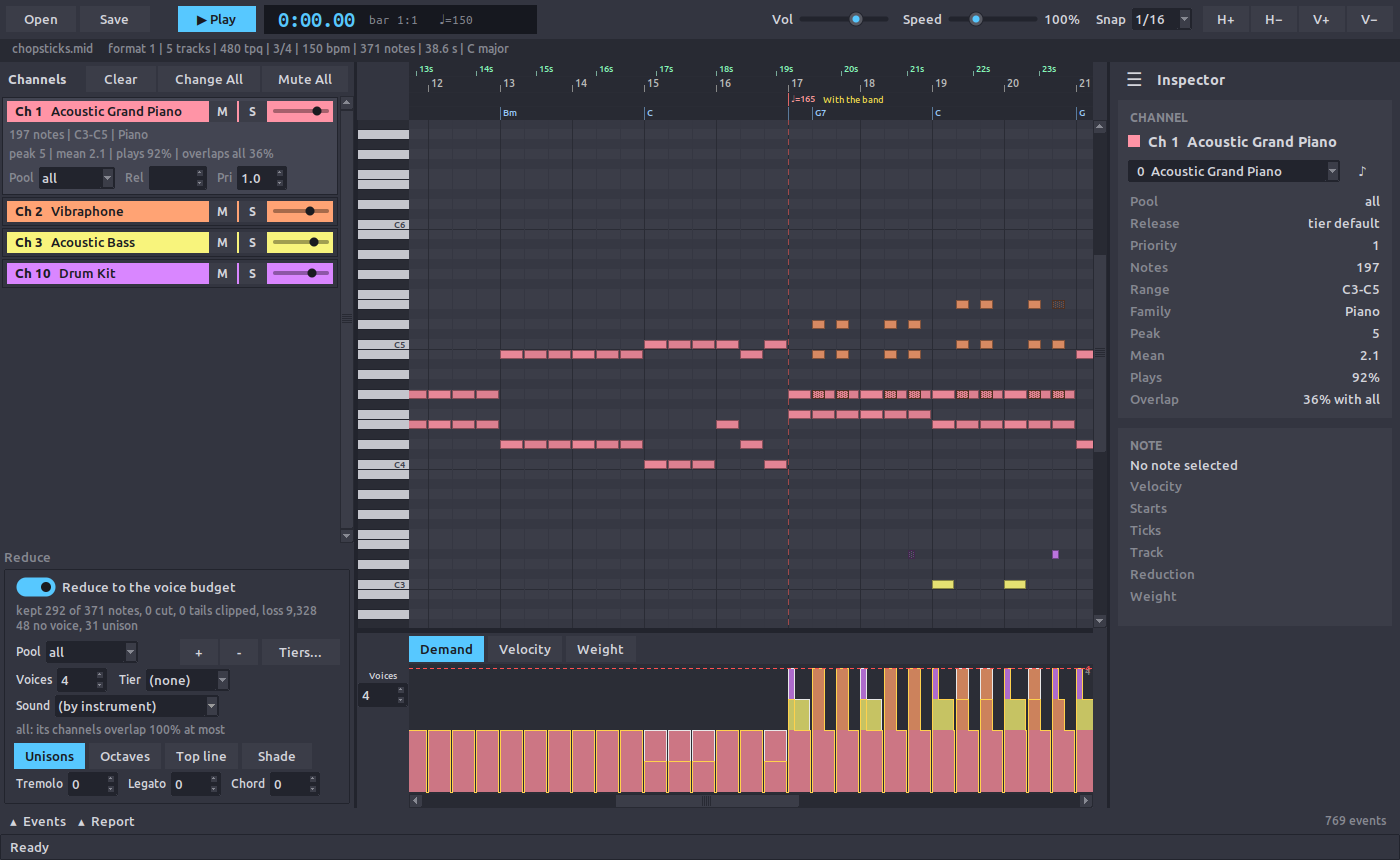
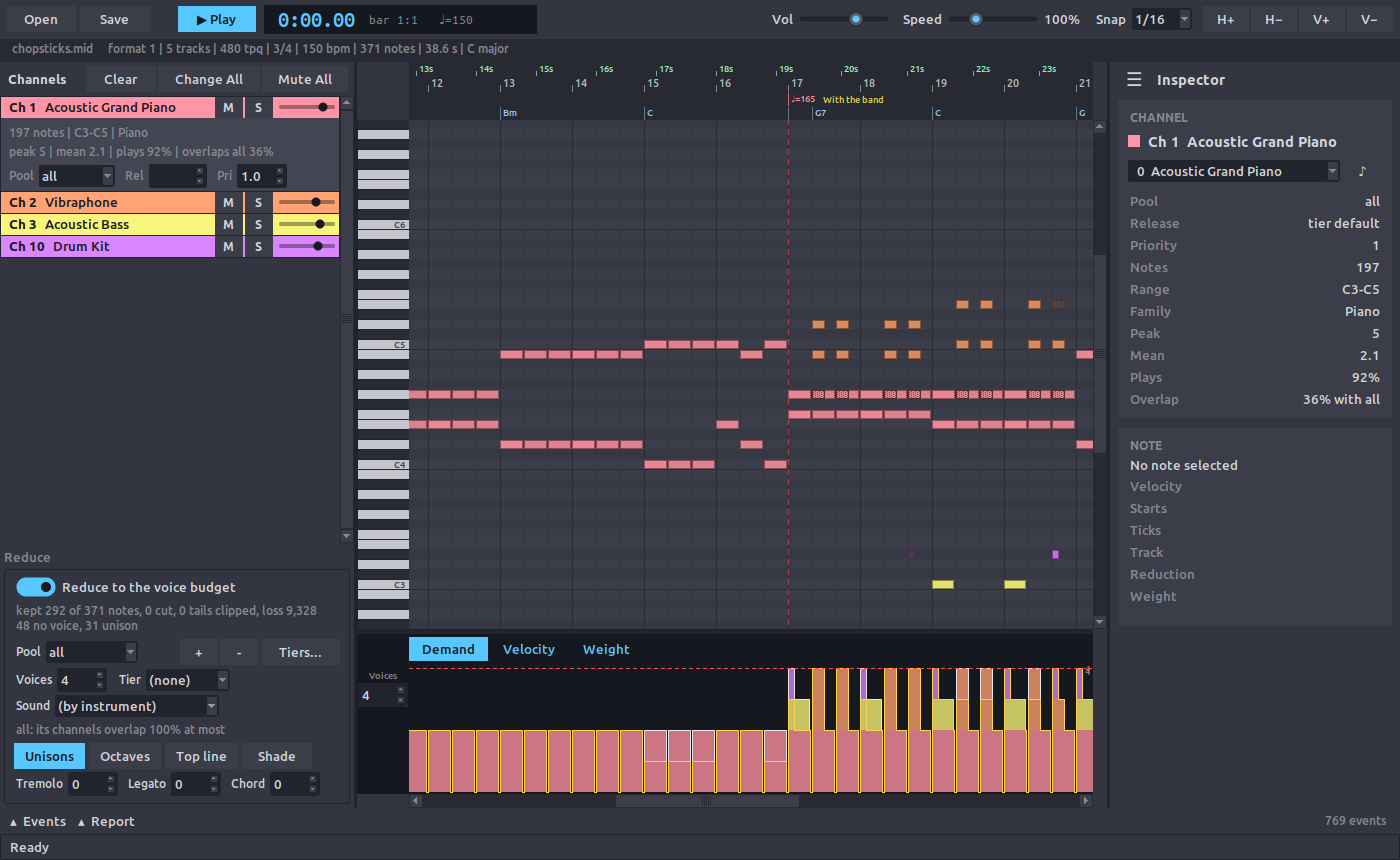
Pack the channel rows edge to edge with a one-pixel etched line between them, and put the strip, its lane switch and its gutter on a near-black panel with the lanes as accent text that fills when on view; retake the screenshots

Changed region(s): [[0.0, 0.0907, 0.2457, 0.3326], [0.2457, 0.7256, 0.7986, 0.9372]]

diff --git a/montyroll/app.py b/montyroll/app.py
@@ -439,8 +439,24 @@ class MidiEditorApp(tk.Tk):
         s.map("TScrollbar", **flatMap(("active", p["hover"])))
 
         # The sashes between the panes are the etched lines, three pixels wide.
+        # Etch.TFrame shows the same colour through the gaps between the
+        # channel rows.
         s.configure("Sash", sashthickness=3, gripcount=0, **flat(p["border"]))
         s.configure("TPanedwindow", background=p["border"])
+        s.configure("Etch.TFrame", background=p["border"])
+
+        # The lane switch and the strip's gutter sit on the strip's dark: a
+        # lane is accent text alone, and the lane on view is filled with the
+        # accent under dark text.
+        dark = theme.ROLL["strip"]
+        s.configure("Lane.TFrame", background=dark)
+        s.configure("Lane.TLabel", background=dark, foreground=p["muted"])
+        s.configure("Lane.Toggle.TButton", foreground=p["accent"], padding=(10, 1),
+                    focuscolor=dark, **flat(dark))
+        s.map("Lane.Toggle.TButton", foreground=[("selected", p["ink"])],
+              focuscolor=[("selected", p["accent"])],
+              **flatMap(("selected", "active", lit), ("selected", p["accent"]),
+                        ("active", theme.mix(dark, p["accent"], 0.15))))
 
     def _paintElements(self):
         """Make the painted images into the switch and slider elements.
@@ -680,11 +696,12 @@ class MidiEditorApp(tk.Tk):
         # gives way to it rather than pushing it off the window.
         self._buildReducePanel(left)
 
-        # Scrollable strip: the cards live in chanHolder, which is embedded in
+        # Scrollable strip: the rows live in chanHolder, which is embedded in
         # chanCanvas through create_window. The holder's <Configure> keeps the
-        # scrollregion in step with the cards' total height, and the canvas's
-        # <Configure> stretches the holder to the canvas width so the cards
-        # fill it edge to edge.
+        # scrollregion in step with the rows' total height, and the canvas's
+        # <Configure> stretches the holder to the canvas width so the rows
+        # fill it edge to edge. The holder is the etch colour, which frames
+        # the rows and shows as a one-pixel line between them.
         scroller = ttk.Frame(left)
         scroller.pack(fill="both", expand=True)
         self.chanCanvas = tk.Canvas(scroller, highlightthickness=0, width=340)
@@ -693,7 +710,7 @@ class MidiEditorApp(tk.Tk):
         self.chanCanvas.configure(yscrollcommand=cbar.set)
         cbar.pack(side="right", fill="y")
         self.chanCanvas.pack(side="left", fill="both", expand=True)
-        self.chanHolder = ttk.Frame(self.chanCanvas)
+        self.chanHolder = ttk.Frame(self.chanCanvas, style="Etch.TFrame", padding=(1, 1, 1, 0))
         self._chanWindow = self.chanCanvas.create_window(
             (0, 0), window=self.chanHolder, anchor="nw")
         self.chanHolder.bind(
@@ -780,8 +797,8 @@ class MidiEditorApp(tk.Tk):
         # only the visible columns from the current scroll position, so its
         # cost is the window width and not the length of the piece. The
         # gutter beside it holds the voice budget.
-        gutter = ttk.Frame(roll, width=KEYS_W)
-        switch = ttk.Frame(roll, padding=(KEYS_W, 3, 0, 2))
+        gutter = ttk.Frame(roll, width=KEYS_W, style="Lane.TFrame")
+        switch = ttk.Frame(roll, padding=(KEYS_W, 3, 0, 3), style="Lane.TFrame")
         switch.grid(row=3, column=0, columnspan=2, sticky="ew")
 
         for lane, tip in (("Demand", "Voices sounding over time, against the budget"),
@@ -789,13 +806,14 @@ class MidiEditorApp(tk.Tk):
                           ("Weight", "A bar for each note, as tall as its reduction weight;\n"
                                      "outlines are the notes the reduction drops")):
             b = ttk.Radiobutton(switch, text=lane, value=lane, variable=self.laneVar,
-                                style="Toggle.TButton", command=self._laneChanged)
-            b.pack(side="left", padx=(0, 4))
+                                style="Lane.Toggle.TButton", command=self._laneChanged)
+            b.pack(side="left", padx=(0, 2))
             Tooltip(b, tip)
 
         gutter.grid(row=4, column=0, sticky="nsew")
         gutter.grid_propagate(False)
-        ttk.Label(gutter, text="Voices", font=(self.uiFamily, 7)).pack(pady=(4, 0))
+        ttk.Label(gutter, text="Voices", style="Lane.TLabel",
+                  font=(self.uiFamily, 7)).pack(pady=(4, 0))
         self.budgetSpin = ttk.Spinbox(gutter, from_=1, to=64, width=3,
                                       textvariable=self.budgetVar,
                                       command=self._reductionChanged)
@@ -1216,9 +1234,8 @@ class MidiEditorApp(tk.Tk):
         for ch in sorted(self.song.channels):
             info = self.song.channels[ch]
             colour = CHANNEL_COLORS[ch]
-            row = tk.Frame(self.chanHolder, padx=4, pady=3, highlightthickness=1,
-                           highlightbackground=p["border"], highlightcolor=p["border"])
-            row.pack(fill="x", padx=2, pady=1)
+            row = tk.Frame(self.chanHolder)
+            row.pack(fill="x", pady=(0, 1))
 
             # The one-line row is a header bar in the channel's colour: the
             # number and instrument in dark text on the left; volume, solo
@@ -1263,7 +1280,7 @@ class MidiEditorApp(tk.Tk):
 
             # The detail, shown under the active row: summary, figures, and
             # the reduction controls.
-            detail = tk.Frame(row)
+            detail = tk.Frame(row, padx=6, pady=2)
             self.channelDetails[ch] = detail
             fam = "Percussion" if info.isDrums else gm.familyName(info.program)
             desc = (f"{info.noteCount} notes | "

diff --git a/tests/test_app.py b/tests/test_app.py
@@ -185,6 +185,29 @@ class TestTheme:
         assert str(fileMenu.cget("activebackground")) == theme.PALETTE["accent"]
         assert str(fileMenu.cget("activeforeground")) == theme.PALETTE["ink"]
 
+    def testRowsAreOnePixelApart(self, app: MidiEditorApp) -> None:
+        """The channel rows are packed with a one-pixel etched line between them."""
+        app.update_idletasks()
+        rows = [app.channelRows[ch] for ch in sorted(app.song.channels)]
+
+        for upper, lower in zip(rows, rows[1:]):
+            assert lower.winfo_y() - (upper.winfo_y() + upper.winfo_height()) == 1
+
+        assert str(app.chanHolder.cget("style")) == "Etch.TFrame"
+        assert ttk.Style(app).lookup("Etch.TFrame", "background") == theme.PALETTE["border"]
+
+    def testLaneSwitchOnTheDarkStrip(self, app: MidiEditorApp) -> None:
+        """The lanes are accent text on the strip's dark; the lane on view is filled."""
+        style = ttk.Style(app)
+        dark = theme.ROLL["strip"]
+        assert str(app.demandCanvas.cget("background")) == dark
+        assert style.lookup("Lane.Toggle.TButton", "background") == dark
+        assert style.lookup("Lane.Toggle.TButton", "foreground") == theme.PALETTE["accent"]
+        assert (style.lookup("Lane.Toggle.TButton", "background", ["selected"])
+                == theme.PALETTE["accent"])
+        assert (style.lookup("Lane.Toggle.TButton", "foreground", ["selected"])
+                == theme.PALETTE["ink"])
+
     def testRowHeaderTakesTheChannelColour(self, app: MidiEditorApp) -> None:
         """A row's header bar is its channel colour with dark text, active or not."""
         first, second = sorted(app.song.channels)[:2]

diff --git a/montyroll/theme.py b/montyroll/theme.py
@@ -35,10 +35,11 @@ PALETTE = {
 
 # The roll, ruler, keyboard gutter and strip: a mid grey note grid with
 # darker lines, so the pastel notes stand out; muted channels' notes in a
-# grey a step lighter than the grid.
+# grey a step lighter than the grid. The strip under the roll, its lane
+# switch and its gutter are a near-black display panel.
 ROLL = {
     "roll": "#3b3d48", "row": "#363843", "octave": "#2a2c35", "bar": "#2a2c35",
-    "beat": "#353742", "ruler": "#282a33", "strip": "#2b2d36", "sash": "#22242d",
+    "beat": "#353742", "ruler": "#282a33", "strip": "#16181f", "sash": "#22242d",
     "white": "#c4c5cc", "black": "#2a2c35", "keyEdge": "#22242d", "keyText": "#3b3d48",
     "muted": "#4c4e59", "mutedEdge": "#2a2c35",
 }
